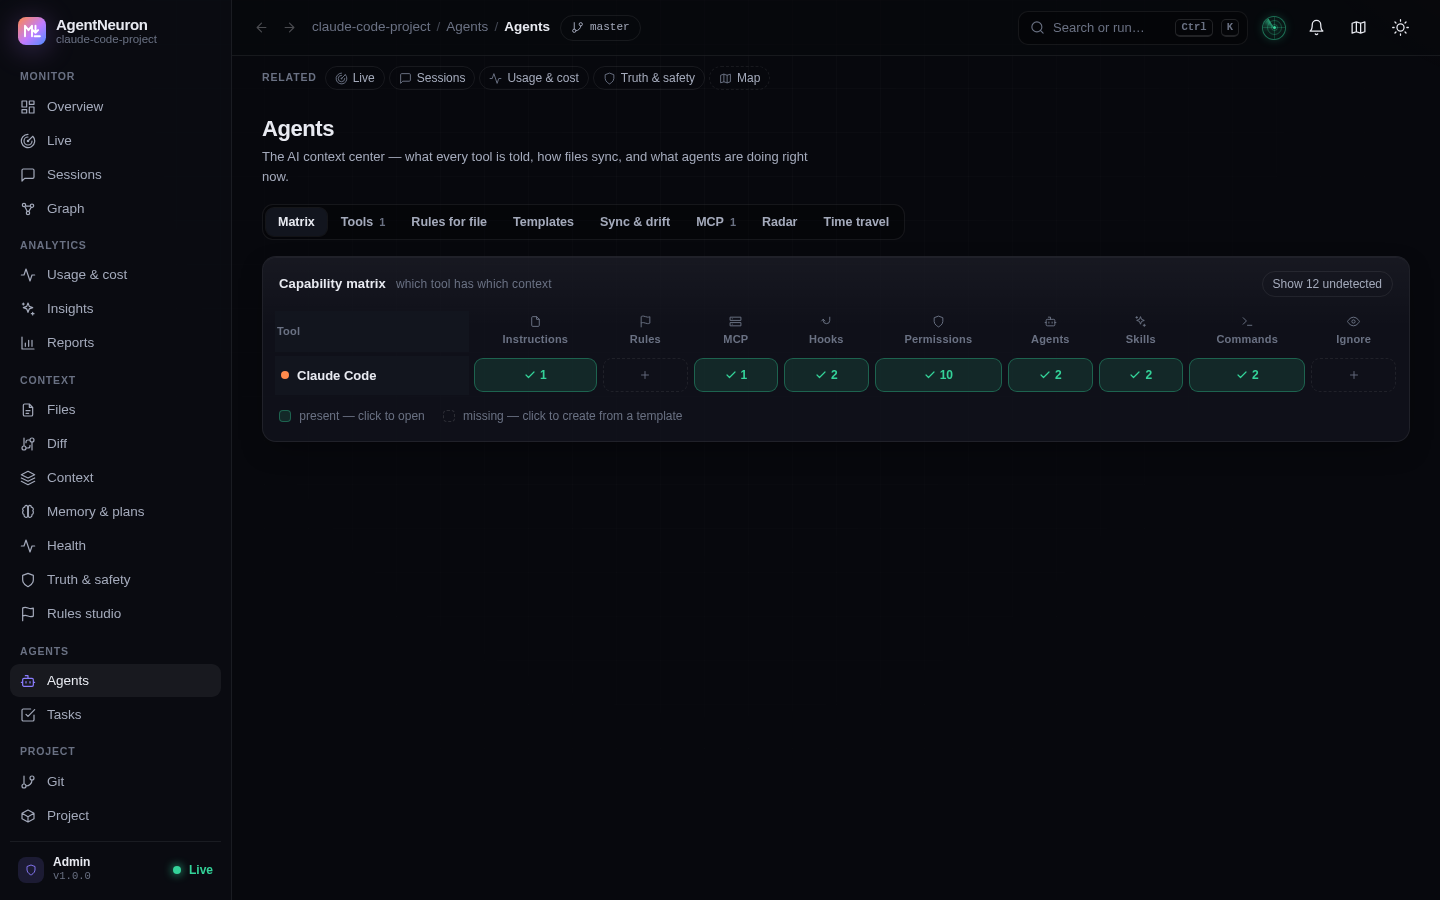
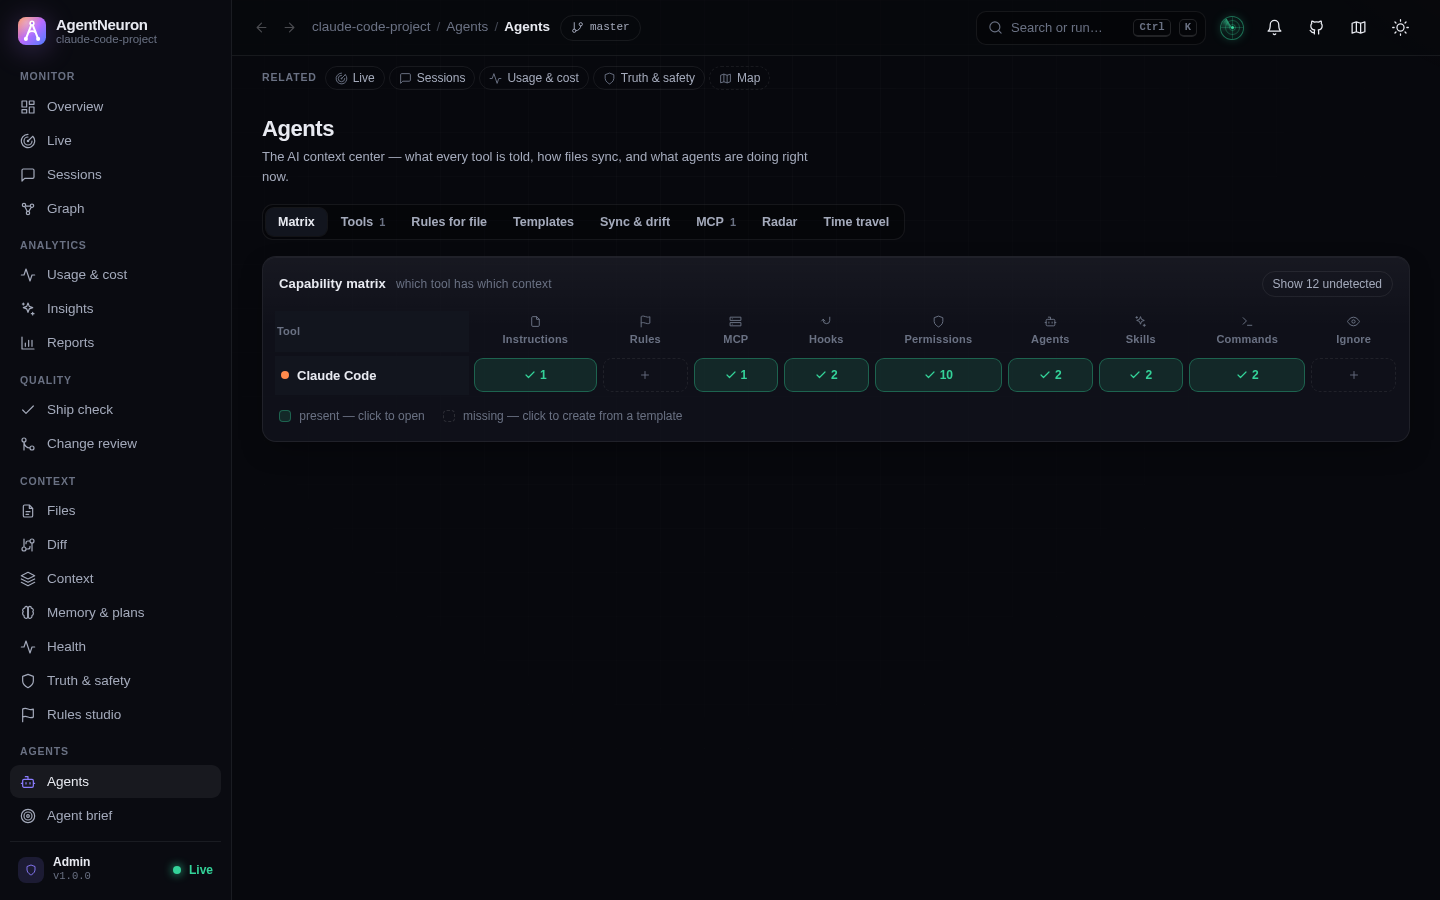
docs: ship check, change review and agent brief in README, changelog and screenshots
README features, CLI table, MCP tools (28), security levels, FAQ and
comparison; new screenshots for ship check, change review, impact graph,
agent brief and preflight warnings; refreshed the rest with the new logo
and overview. The screenshot script hides transient demo toasts.

diff --git a/README.md b/README.md
@@ -2,7 +2,7 @@
 
 # AgentNeuron
 
-**AgentNeuron is an open-source, local control center for AI coding-agent context files.** It shows what Claude Code, Codex and other agents are editing in real time, what every session cost (tokens, cache, tools, subagents) with a step-by-step replay, checks that `CLAUDE.md`, `AGENTS.md`, `GEMINI.md`, Cursor rules, Copilot instructions, Windsurf rules, skills and MCP configs are still true and safe, learns rules from your agent sessions, and keeps every tool's rules in sync, in a web dashboard, a CLI and an MCP server.
+**AgentNeuron is an open-source, local control center for AI coding-agent context files.** It shows what Claude Code, Codex and other agents are editing in real time, what every session cost (tokens, cache, tools, subagents) with a step-by-step replay, checks that `CLAUDE.md`, `AGENTS.md`, `GEMINI.md`, Cursor rules, Copilot instructions, Windsurf rules, skills and MCP configs are still true and safe, verifies that an agent's work is really done and safe to ship (tests, acceptance criteria, risky changes, made-up packages, restore points), warns agents before they repeat a known mistake, learns rules from your agent sessions, and keeps every tool's rules in sync, in a web dashboard, a CLI and an MCP server.
 
 [![npm version](https://img.shields.io/npm/v/agentneuron)](https://www.npmjs.com/package/agentneuron)
 [![npm downloads](https://img.shields.io/npm/dm/agentneuron)](https://www.npmjs.com/package/agentneuron)
@@ -41,6 +41,23 @@ AI tools read a growing pile of instruction files, and nobody checks them. Links
 - [Security audit](docs/audit.md) of agent config: unpinned MCP servers, inline tokens, `Bash(*)`, bypass modes, risky hooks, with a 0 to 100 risk score.
 - [Context CI](docs/ci.md): `agentneuron ci` and a GitHub Action that annotate pull requests, with `--base` to report only new problems.
 
+**Verify the work before you ship it**
+- [Ship check](docs/ship.md): runs your tests, build, lint and typecheck (opt-in) and gives a verdict with evidence: verified, partial, failing or unverified. Tracks each task's acceptance criteria as verified, incomplete, untested or failed, linked to the tests, commits and files that prove it.
+- Production readiness: missing env vars, `.env` committed, debug flags, auth bypasses, `CORS *`, default passwords, secrets, new or edited migrations, missing lockfile or start script.
+- Fake functionality detector: placeholder handlers, mock login, hard-coded demo data, `not implemented` stubs, lorem ipsum and `href="#"` buttons, before they go live.
+
+**Review what agents changed**
+- [Change review](docs/changes.md): every changed file and hunk rated high, medium or low risk with the reason (removed permission checks, touched auth, payments, migrations or CI, secrets, disabled tests), files without tests, and a "read these first" order.
+- Impact analysis: the functions and exports a change touches and what depends on them, from importers and callers to routes, tests and API contracts, as a graph and a list.
+- Safe checkpoints: snapshots of the working tree as git refs that never touch your branch, index or HEAD, with per-file restore after an automatic undo point.
+- Package guard: flags dependencies that look like popular packages (`expres`), are missing from the lockfile, come from URLs or run install scripts. Registry and advisory lookups are opt-in.
+
+**Brief your agents**
+- [Agent brief](docs/brief.md): a resume brief of any session or task (goal, done, failed attempts, decisions, files, test results, next steps, each with evidence) to continue in a new session or another agent.
+- Mistake prevention: `agentneuron preflight` warns before an agent repeats a known mistake (`npm install` in a pnpm repo, editing generated files or `.env`, a command that failed before, `rm -rf /`) and exits 2 to block it from a Claude Code hook.
+- Context packs: the files, rules, facts and tests that matter for a task, within a token budget.
+- Bug detective: paste an error or use the last failing test run to get the affected files, recent changes, related config and ranked causes with how to confirm each.
+
 **Track usage and cost**
 - [Usage & cost](docs/usage.md): cost per day, model, branch and agent from your local Claude Code and Codex sessions. Cost is exact where Claude Code recorded it and marked as an estimate where it did not. Also cache hit rate and money saved by caching, tokens, turn times, a daily budget with burn rate, and alerts for cost spikes, repeated tool failures and context jumps.
 - Session replay: every prompt, thinking step (with its duration), tool call, result, error, edit, compaction and subagent of a session on one timeline, with before/after diffs of the files it changed.
@@ -63,7 +80,7 @@ AI tools read a growing pile of instruction files, and nobody checks them. Links
 - Effective context: the merged instruction chain Claude, Codex or Cursor sees for a given directory, with token counts.
 - Agents center: tool and capability matrix for 13 AI tools, rules that apply to a file, MCP servers, concurrent-edit radar, context time travel.
 - Memory & plans: Claude's saved memory and plans for the project, with links between memories and warnings when a memory claims something the repo no longer has.
-- One connected dashboard: pages grouped into Monitor, Analytics, Context, Agents and Project, a product map of how pages and data connect, and a details panel for any session, file, commit, task, tool or model.
+- One connected dashboard: pages grouped into Monitor, Analytics, Quality, Context, Agents and Project, a product map of how pages and data connect, and a details panel for any session, file, commit, task, tool or model.
 - Project intelligence: stacks, dependencies and outdated packages, scripts, CI, Docker, env keys, Laravel routes/models/migrations, doc drift, code stats.
 - Git: changes, history, branches, tags, stash, blame, stats, generated changelog.
 
@@ -80,7 +97,7 @@ AI tools read a growing pile of instruction files, and nobody checks them. Links
 - Git stage/commit/branch, package and script runner. Commands are spawned without a shell, stream live output and are written to an audit log.
 
 **Integrate**
-- [MCP server](docs/mcp.md) (`agentneuron mcp`) with 19 read-only tools, plus 4 opt-in coordination tools, so your AI agents can query the same data.
+- [MCP server](docs/mcp.md) (`agentneuron mcp`) with 28 read-only tools, plus 4 opt-in coordination tools, so your AI agents can query the same data.
 - HTTP + Server-Sent Events [API](docs/http-api.md).
 - `agentneuron lint --json` for CI ([example workflow](examples/ci/)).
 - Slack/Discord-compatible webhooks for secrets, conflicts, health drops and job results.
@@ -90,8 +107,11 @@ AI tools read a growing pile of instruction files, and nobody checks them. Links
 
 | | |
 |---|---|
-| ![Live view: Claude, Codex and Cursor sessions in swimlanes with streaming file edits, line counts, a heat strip of touched files and a collision warning](https://raw.githubusercontent.com/TurjoAt/agentneuron/main/docs/assets/live.png) | ![Overview dashboard with KPIs, the animated Neuron brain orbit graph, live agents, truth and safety summary and context health](https://raw.githubusercontent.com/TurjoAt/agentneuron/main/docs/assets/overview.png) |
+| ![Live view: Claude, Codex and Cursor sessions in swimlanes with streaming file edits, line counts, a heat strip of touched files and a collision warning](https://raw.githubusercontent.com/TurjoAt/agentneuron/main/docs/assets/live.png) | ![Overview dashboard: project header, KPIs, a status row for usage and cost, ship check, change review and truth and safety, the Neuron brain graph and live agents](https://raw.githubusercontent.com/TurjoAt/agentneuron/main/docs/assets/overview.png) |
 | **Live:** what each agent is editing right now | **Overview:** Neuron brain, live agents, health and tasks |
+| ![Ship check: a failing completion verdict with reasons, changed files with line counts, test, typecheck and lint checks with their last results and Run buttons](https://raw.githubusercontent.com/TurjoAt/agentneuron/main/docs/assets/ship.png) | ![Change review: changed files, lines and risk counts, a read-these-first list of high-risk files with reasons such as a removed permission check or an added secret](https://raw.githubusercontent.com/TurjoAt/agentneuron/main/docs/assets/changes.png) |
+| ![Impact graph: changed files, the functions they change, their importers, callers and tests, and the API routes and contracts that may be affected](https://raw.githubusercontent.com/TurjoAt/agentneuron/main/docs/assets/changes-impact.png) | ![Agent brief: a resume brief of a session with goal, done work, failed attempts, decisions, files and next steps, each with evidence](https://raw.githubusercontent.com/TurjoAt/agentneuron/main/docs/assets/brief.png) |
+| ![Preflight warnings: active rules from repo facts, context rules, accepted lessons and session history that warn or block an agent's command](https://raw.githubusercontent.com/TurjoAt/agentneuron/main/docs/assets/brief-warnings.png) | ![Overview in the light theme](https://raw.githubusercontent.com/TurjoAt/agentneuron/main/docs/assets/overview-light.png) |
 | ![Truth check listing false commands and paths in CLAUDE.md with the evidence and a one-click fix](https://raw.githubusercontent.com/TurjoAt/agentneuron/main/docs/assets/verify.png) | ![Insights: lessons mined from agent sessions as proposed rules with evidence quotes and confidence](https://raw.githubusercontent.com/TurjoAt/agentneuron/main/docs/assets/insights.png) |
 | **Truth & safety:** instructions that are no longer true | **Insights:** rules learned from your sessions |
 | ![Link graph of CLAUDE.md, skills, subagents and docs grouped by role in AgentNeuron's neural layout](https://raw.githubusercontent.com/TurjoAt/agentneuron/main/docs/assets/graph.png) | ![Tasks board built from Markdown checkboxes in TODO.md, with labels, due dates and links to the source line](https://raw.githubusercontent.com/TurjoAt/agentneuron/main/docs/assets/tasks.png) |
@@ -148,6 +168,9 @@ agentneuron lint                 # print issues, exit 1 on any error (CI friendl
 agentneuron status               # files, tokens, health in a few lines
 agentneuron workspace ~/code     # one UI for a folder of projects
 agentneuron mcp                  # MCP server on stdio
+agentneuron ship --run           # run tests/build/lint and report what is verified
+agentneuron review               # risk-rated review of what the agent changed
+agentneuron checkpoint create    # restore point before letting an agent loose
 agentneuron --enable edit        # allow editing files from the UI for this run
 ```
 
@@ -169,7 +192,7 @@ Any other Markdown in the project (README, TODO, ROADMAP, ADRs, `docs/`) is trac
 
 ## Use it from your AI agent (MCP)
 
-`agentneuron mcp` is a read-only MCP server on stdio. Its tools: `project_info`, `list_files`, `read_file`, `search`, `get_health`, `get_context`, `recent_changes`, `get_tasks`, `get_links`, `report_export`, `verify_context`, `audit_agent_config`, `suggest_rules`, `compile_preview`, `get_usage`, `get_session_replay`, `get_tool_health`, `list_claims`, `get_handoffs`. With `--level state`, agents can also `claim_task`, `claim_files`, `release_files` and write a `handoff_note`. Full reference: [docs/mcp.md](docs/mcp.md).
+`agentneuron mcp` is a read-only MCP server on stdio. Its tools: `project_info`, `list_files`, `read_file`, `search`, `get_health`, `get_context`, `recent_changes`, `get_tasks`, `get_links`, `report_export`, `verify_context`, `audit_agent_config`, `suggest_rules`, `compile_preview`, `get_usage`, `get_session_replay`, `get_tool_health`, `get_ship_report`, `get_task_scope`, `review_changes`, `get_change_impact`, `check_package`, `get_resume_brief`, `preflight_check`, `get_context_pack`, `get_debug_report`, `list_claims`, `get_handoffs`. With `--level state`, agents can also `claim_task`, `claim_files`, `release_files` and write a `handoff_note`. Full reference: [docs/mcp.md](docs/mcp.md).
 
 **Claude Code** (CLI, or `.mcp.json` at the project root):
 
@@ -204,10 +227,10 @@ Other MCP clients (Codex, Windsurf, Gemini CLI, Zed, Continue) use the same comm
 | Level | Allows | Enabled by |
 |---|---|---|
 | `read` | Monitor, search, graph, health, git read | always |
-| `state` | AgentNeuron's own data in `.agentneuron/`: task board, bookmarks, annotations, rescan | admin role |
-| `edit` | Write project files, git stage/commit/branch, history and trash restore | `--enable edit` |
-| `exec` | Run commands: package managers, scripts, git fetch/pull/push, MCP test; edit files that make agents run commands (Claude hooks and permissions, `.mcp.json`) | `--enable exec` |
-| `danger` | Discard changes, delete branches, run migrations, clear history, purge trash | `--enable danger` |
+| `state` | AgentNeuron's own data in `.agentneuron/`: task board, bookmarks, annotations, rescan, criteria overrides, saved briefs | admin role |
+| `edit` | Write project files, git stage/commit/branch, history and trash restore, create and delete checkpoints | `--enable edit` |
+| `exec` | Run commands: package managers, scripts, ship checks (tests, build, lint), git fetch/pull/push, MCP test; edit files that make agents run commands (Claude hooks and permissions, `.mcp.json`) | `--enable exec` |
+| `danger` | Discard changes, delete branches, run migrations, clear history, purge trash, restore files from a checkpoint | `--enable danger` |
 | `terminal` | Free-form command runner (also requires `danger`) | `--enable terminal` |
 
 - Commands are spawned without a shell, every parameter is validated, and file paths cannot leave the project.
@@ -229,6 +252,14 @@ Read [docs/permissions-and-security.md](docs/permissions-and-security.md) before
 | `agentneuron verify [dir]` | Truth check: false commands, paths and versions in context files |
 | `agentneuron audit [dir]` | Security audit of MCP servers, permissions and hooks |
 | `agentneuron ci [dir]` | Lint + verify + audit for pull requests (GitHub annotations) |
+| `agentneuron ship [dir]` | Is the work verified and ready to deploy? (`--run` runs the checks) |
+| `agentneuron review [dir]` | Risk-rated review of the current diff, with missing tests |
+| `agentneuron checkpoint list\|create\|diff\|restore` | Safe restore points; restore only the files you pick |
+| `agentneuron packages [dir]` | Look-alike, unknown or risky dependencies |
+| `agentneuron resume [dir]` | Resume brief of a session or task, as Markdown for another agent |
+| `agentneuron preflight --command "..."` | Warnings before a command or edit; exit 2 blocks it (hook-friendly) |
+| `agentneuron pack --task "..."` | Task-specific context pack within a token budget |
+| `agentneuron debug [dir]` | Diagnostic report for an error or the last failing run |
 | `agentneuron usage [dir]` | Cost, tokens, cache, tools and alerts from your Claude/Codex sessions |
 | `agentneuron lessons [dir]` | Rules to learn from your Claude/Codex sessions |
 | `agentneuron compile [dir]` | Compile `.agentneuron/rules/` into every tool's files |
@@ -248,7 +279,7 @@ For usage and session pages it also reads the session logs Claude Code and Codex
 
 ### Does it send my code or files anywhere?
 
-No. There is no telemetry. The only outbound requests are webhooks you configure, commands you run yourself through actions (such as `git fetch`), and the MCP server test.
+No. There is no telemetry. The only outbound requests are webhooks you configure, commands you run yourself through actions (such as `git fetch`), the MCP server test, and package registry lookups if you turn on `packages.online`.
 
 ### Does it use an AI model or cost tokens?
 
@@ -256,7 +287,7 @@ No. AgentNeuron does not call any model. Token counts are local estimates. Sessi
 
 ### Will it change my project?
 
-Not by default. It writes only inside `.agentneuron/`. Editing files and running commands require you to enable a permission level.
+Not by default. It writes only inside `.agentneuron/` (and, when you create a checkpoint, a git ref under `refs/agentneuron/checkpoints/`, which never touches your branches, index or HEAD). Editing files and running commands require you to enable a permission level.
 
 ### How do I lint CLAUDE.md or AGENTS.md in CI?
 
@@ -274,6 +305,14 @@ Yes, through the MCP server (`agentneuron mcp`). An agent can ask for the effect
 
 Run `npx agentneuron` and open **Usage & cost**, or run `npx agentneuron usage --range 7d` in a terminal. You get cost per day, model, branch and session, the cache hit rate and what caching saved, and alerts for cost spikes or an agent stuck repeating the same failing command. Open any session to replay it step by step.
 
+### How do I know the agent's work is actually done?
+
+Open **Ship check**, or run `npx agentneuron ship --run`. It runs your tests, build, lint and typecheck, and reports a verdict with the evidence: which acceptance criteria of the task are verified, incomplete, untested or failed, what changed, and anything that blocks a production deploy. Pair it with `agentneuron review` to see which changes are risky and which files have no tests.
+
+### Can I stop an agent from repeating a mistake?
+
+Yes. `agentneuron preflight --command "<cmd>"` checks a command or a file edit against the project's rules, past session failures and repo facts (such as the package manager in use) and exits 2 when it should be blocked. Wire it into a Claude Code `PreToolUse` hook; the snippet is in [docs/brief.md](docs/brief.md). AI agents can also call the `preflight_check` MCP tool.
+
 ### Can I see what Claude Code or Codex is editing right now?
 
 Yes. Open **Live**: AgentNeuron tails the Claude Code and Codex session transcripts for the project and shows each edit as it happens, checked against the file watcher, with diffs and collision warnings. Prompts are shown to admins only. See [docs/live.md](docs/live.md).
@@ -290,6 +329,7 @@ More answers: [docs/faq.md](docs/faq.md).
 | Secret detection in context files | Yes | No | No | Manual |
 | Drift between tools' instruction files | Yes | No | Usually one-way copy | Manual |
 | Live change feed and history | Yes | No | No | git log |
+| Verifies agent work (tests, criteria, risky changes) | Yes | No | No | Manual |
 | MCP server for agents | Yes, read-only | No | No | No |
 | Runs locally, no account | Yes | Yes | Yes | Yes |
 

diff --git a/CHANGELOG.md b/CHANGELOG.md
@@ -14,10 +14,17 @@ All notable changes to this project are documented here. The format follows [Kee
 - Details panel for any session, file, commit, task, tool, model or agent, linked from every page; a product map of pages and how their data connects; related-page links on each page; grouped, collapsible sidebar with badges; a bottom bar on phones; entity search in the command palette.
 - Animated first-load screen that shows the real startup steps (connect, sign in, files, analysis, sessions).
 - MCP tools `get_usage`, `get_session_replay` and `get_tool_health`.
+- **Ship check** page and `agentneuron ship`: detects the project's test, build, lint and typecheck commands, runs them on request (`exec` level, or `--run` in the CLI), parses the results and gives a verdict (verified, partial, failing, unverified) with evidence. Acceptance criteria on board tasks are tracked as verified, incomplete, untested or failed with linked tests, commits and files. Static production-readiness scan and a fake-functionality detector (placeholder handlers, mock auth, demo data, stubs).
+- **Change review** page and `agentneuron review`: per-file and per-hunk risk with reasons, missing tests and a read-first order; impact analysis of changed symbols (importers, callers, routes, tests, contracts). Safe checkpoints (`agentneuron checkpoint`) stored as `refs/agentneuron/checkpoints/*` with per-file restore after an automatic undo point. Package guard (`agentneuron packages`) for look-alike, unlocked or risky dependencies, offline by default.
+- **Agent brief** page: resume briefs of a session or task to continue in another agent (`agentneuron resume`), warnings before repeating known mistakes (`agentneuron preflight`, exit 2 for `PreToolUse` hooks), task context packs (`agentneuron pack`) and a bug detective (`agentneuron debug`).
+- MCP tools `get_ship_report`, `get_task_scope`, `review_changes`, `get_change_impact`, `check_package`, `get_resume_brief`, `preflight_check`, `get_context_pack` and `get_debug_report`.
+- New logo and favicon; GitHub link in the top bar and account menu; reorganized Overview with a status row (usage, ship check, change review, truth & safety) and labelled sections.
 
 ### Security
 
 - Usage routes follow the prompt policy (`live.showPrompts`, `live.viewerPrompts`): viewers get no prompt text, titles, thinking or memory bodies, and file versions need `live.viewerDiffs`. Claude's credentials, session keys and pasted prompt content are never read or returned. Other projects' sessions are read only with `"usage": { "scope": "all" }` and the admin role.
+
+- Quality-round routes: test-failure excerpts and run logs are admin-only, session text in briefs follows the prompt policy, pasted error text is admin-only and never stored in job parameters, package registry lookups need `packages.online` and the admin role, and checkpoint file content needs `live.viewerDiffs`.
 
 ## [1.0.0] - 2026-10-26
 

diff --git a/docs/README.md b/docs/README.md
@@ -21,6 +21,9 @@ AgentNeuron is an open-source Node.js CLI, local web dashboard and read-only MCP
 | [Coordination](coordination.md) | Advisory file claims, task claims and handoff notes for several agents |
 | [Supported tools](supported-tools.md) | Which files are detected for which AI tool |
 | [Usage, cost and sessions](usage.md) | Cost (exact or estimated), tokens, cache, tools, session replay, file versions, memory and settings audit from local agent data |
+| [Ship check](ship.md) | Verify agent work: run tests/build/lint, acceptance criteria with evidence, production readiness, fake functionality |
+| [Change review](changes.md) | Risk-rated diff review, impact analysis, safe checkpoints and selective restore, package guard |
+| [Agent brief](brief.md) | Resume briefs, preflight warnings (hooks), task context packs, bug detective |
 | [Insights](insights.md) | Lessons from agent sessions, rule effectiveness, replay, cost by feature |
 | [Project intelligence](project-intelligence.md) | Stacks, dependencies, CI, env, Laravel, doc drift |
 | [Architecture](architecture.md) | Module map, data flow, single-file build |
